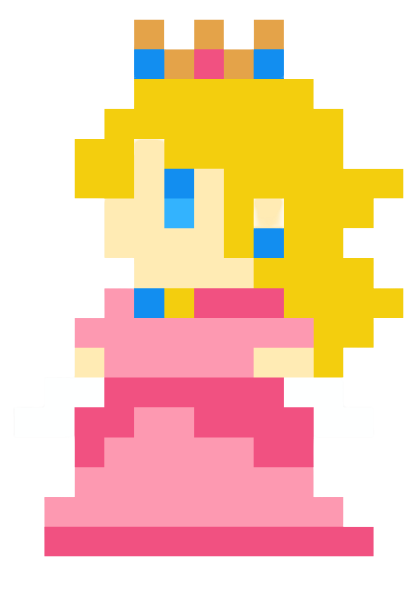
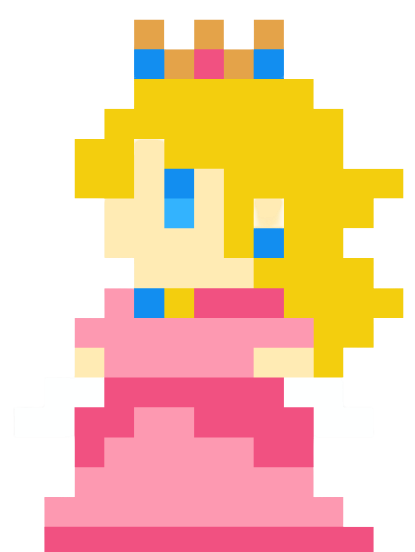
level added

Changed region(s): [[0.0867, 0.0308, 0.9831, 1.0]]

diff --git a/mario.js b/mario.js
@@ -22,6 +22,7 @@ loadSprite('flower', 'uaUm9sN.png')
 loadSprite('mushroom', '0wMd92p.png')
 loadSprite('enemy', 'KPO3fR9.png')
 loadSprite('brick', 'pogC9x5.png')
+loadSprite('blue-brick', '3e5YRQd.png')
 loadSprite('block', 'M6rwarW.png')
 loadSprite('surprise', 'gesQ1KP.png')
 loadSprite('coin-surprise', 'gesQ1KP.png')
@@ -31,8 +32,9 @@ loadSprite('pipe-top-left', 'ReTPiWY.png')
 loadSprite('pipe-top-right', 'hj2GK4n.png')
 loadSprite('pipe-bottom-left', 'c1cYSbt.png')
 loadSprite('pipe-bottom-right', 'nqQ79eI.png')
-loadSprite('peach', 'Hg6ttP8.png')
+loadSprite('peach', 'U9uPPhu.png')
 loadSprite('happy-end', 'rmGzaBF.png')
+loadSprite('blue-ground', 'gqVoI2b.png')
 
 scene("game", ( { level, score }) => {
   layers(['bg', 'obj', 'ui'], 'obj')
@@ -46,26 +48,41 @@ scene("game", ( { level, score }) => {
     '                                                ',
     '                                  $             ',
     '                             ======             ',
-    '     #=        0=?=                      $      ',
+    '     #=        0=?=                    $        ',
     '                                                ',
-    '                                             <> ',
-    '           $         ^   ^                   () ',
+    '                                         <>     ',
+    '           $         ^   ^               ()     ',
     '==============================    =============='
+  ],
+  [
+    '                                                ',
+    '                                                ',
+    '                                                ',
+    '                                                ',
+    '                                                ',
+    '                                                ',
+    '                                           <>   ',
+    '                                           ()   ',
+    '              $                     $    -----  ',
+    '           $  -               $    ---          ',
+    '        $  -  -              ---                ',
+    '        -  -  -         ^ ^                     ',
+    '---------------------------                     '
   ],
   [
     '                                                ',
     '                                                ',
     '       ==0==?===                                ',
     '                                                ',
-    '                                                ',
+    '         $                                      ',
     '       =========                                ',
     '                                                ',
     '                                                ',
     '=====                                           ',
     '                                                ',
-    '                                             P  ',
-    '        $           ^                    ^      ',
-    '       ==================    ====================='
+    '                                           P    ',
+    '        $           ^  $                 ^      ',
+    '       ==================    ==================='
   ],
 ]
 
@@ -84,7 +101,9 @@ scene("game", ( { level, score }) => {
     '0': [sprite('surprise'), solid(), 'mushroom-surprise'],
     '/': [sprite('unboxed'), solid()],
     '#': [sprite('surprise'), solid(), 'empty'],
-    'P': [sprite('peach'), solid(), scale(0.05), 'peach']
+    'P': [sprite('peach'), solid(), scale(0.07),'peach'],
+    '_': [sprite('blue-brick'), solid()],
+    '-': [sprite('brick'), solid()]
   }
 
   const gameLevel = addLevel(levelMaps[level - 1], levelCfg)
